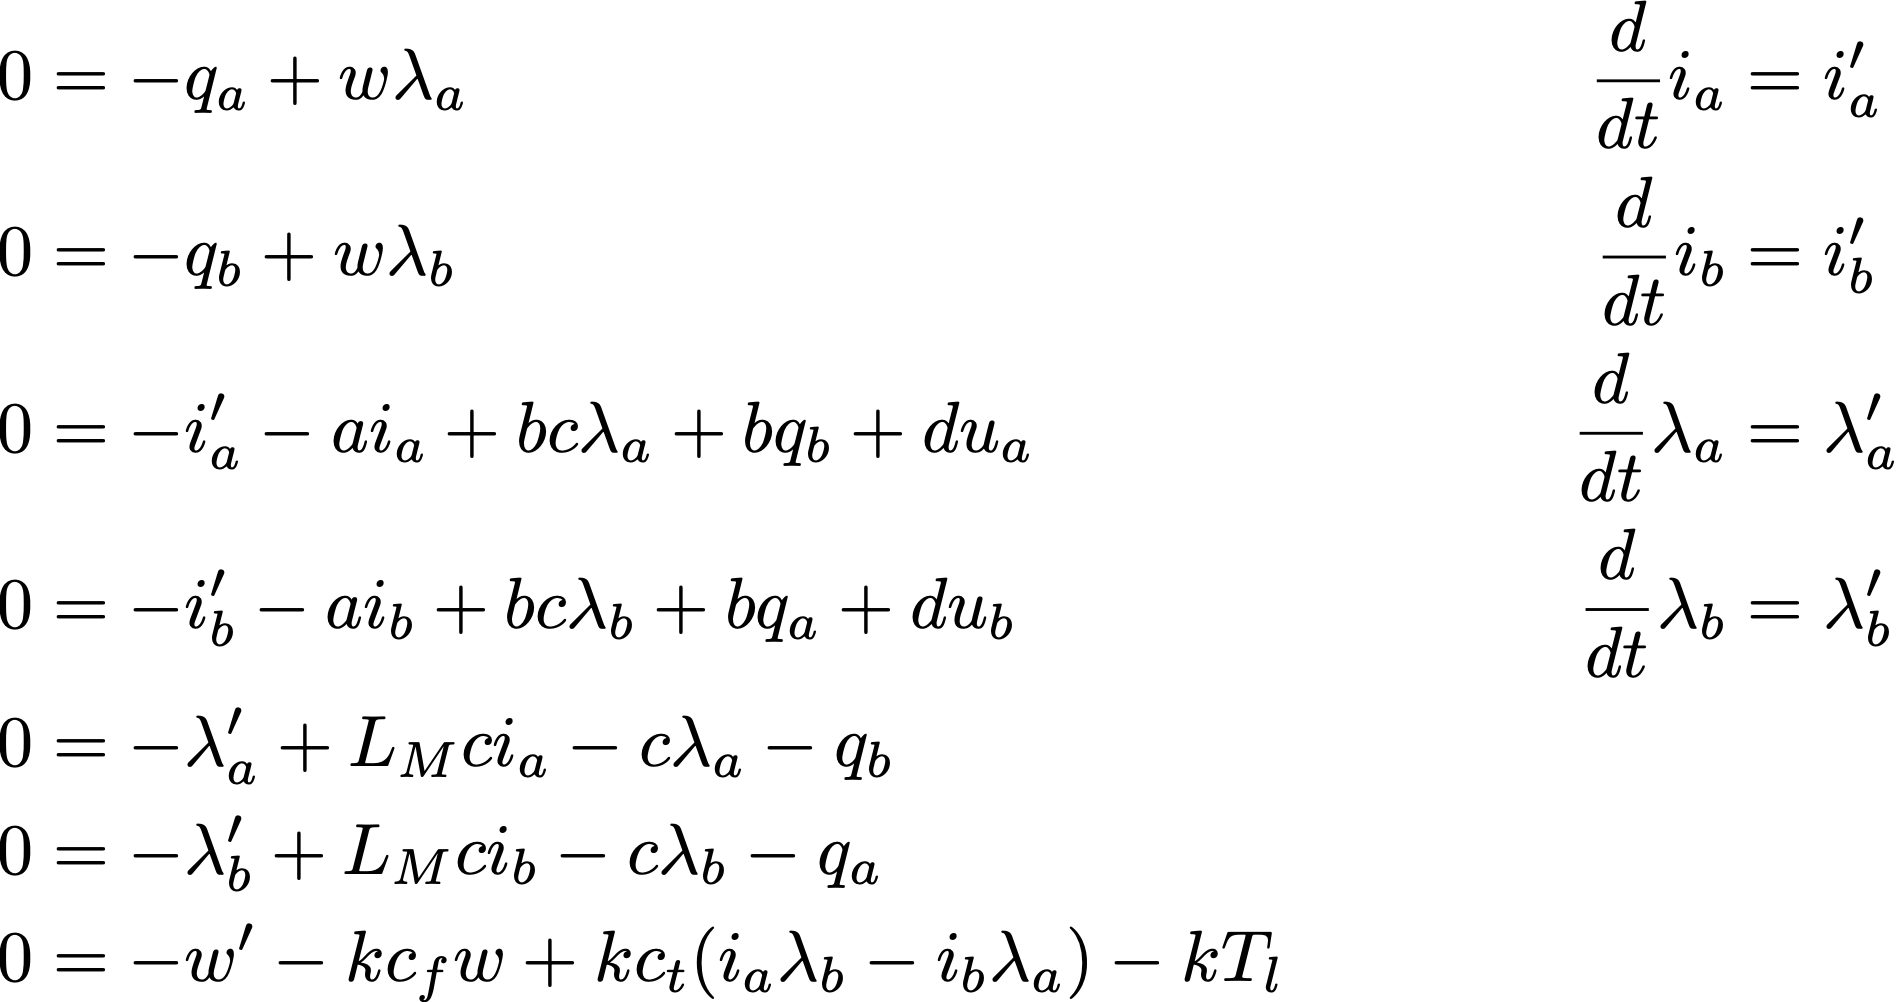
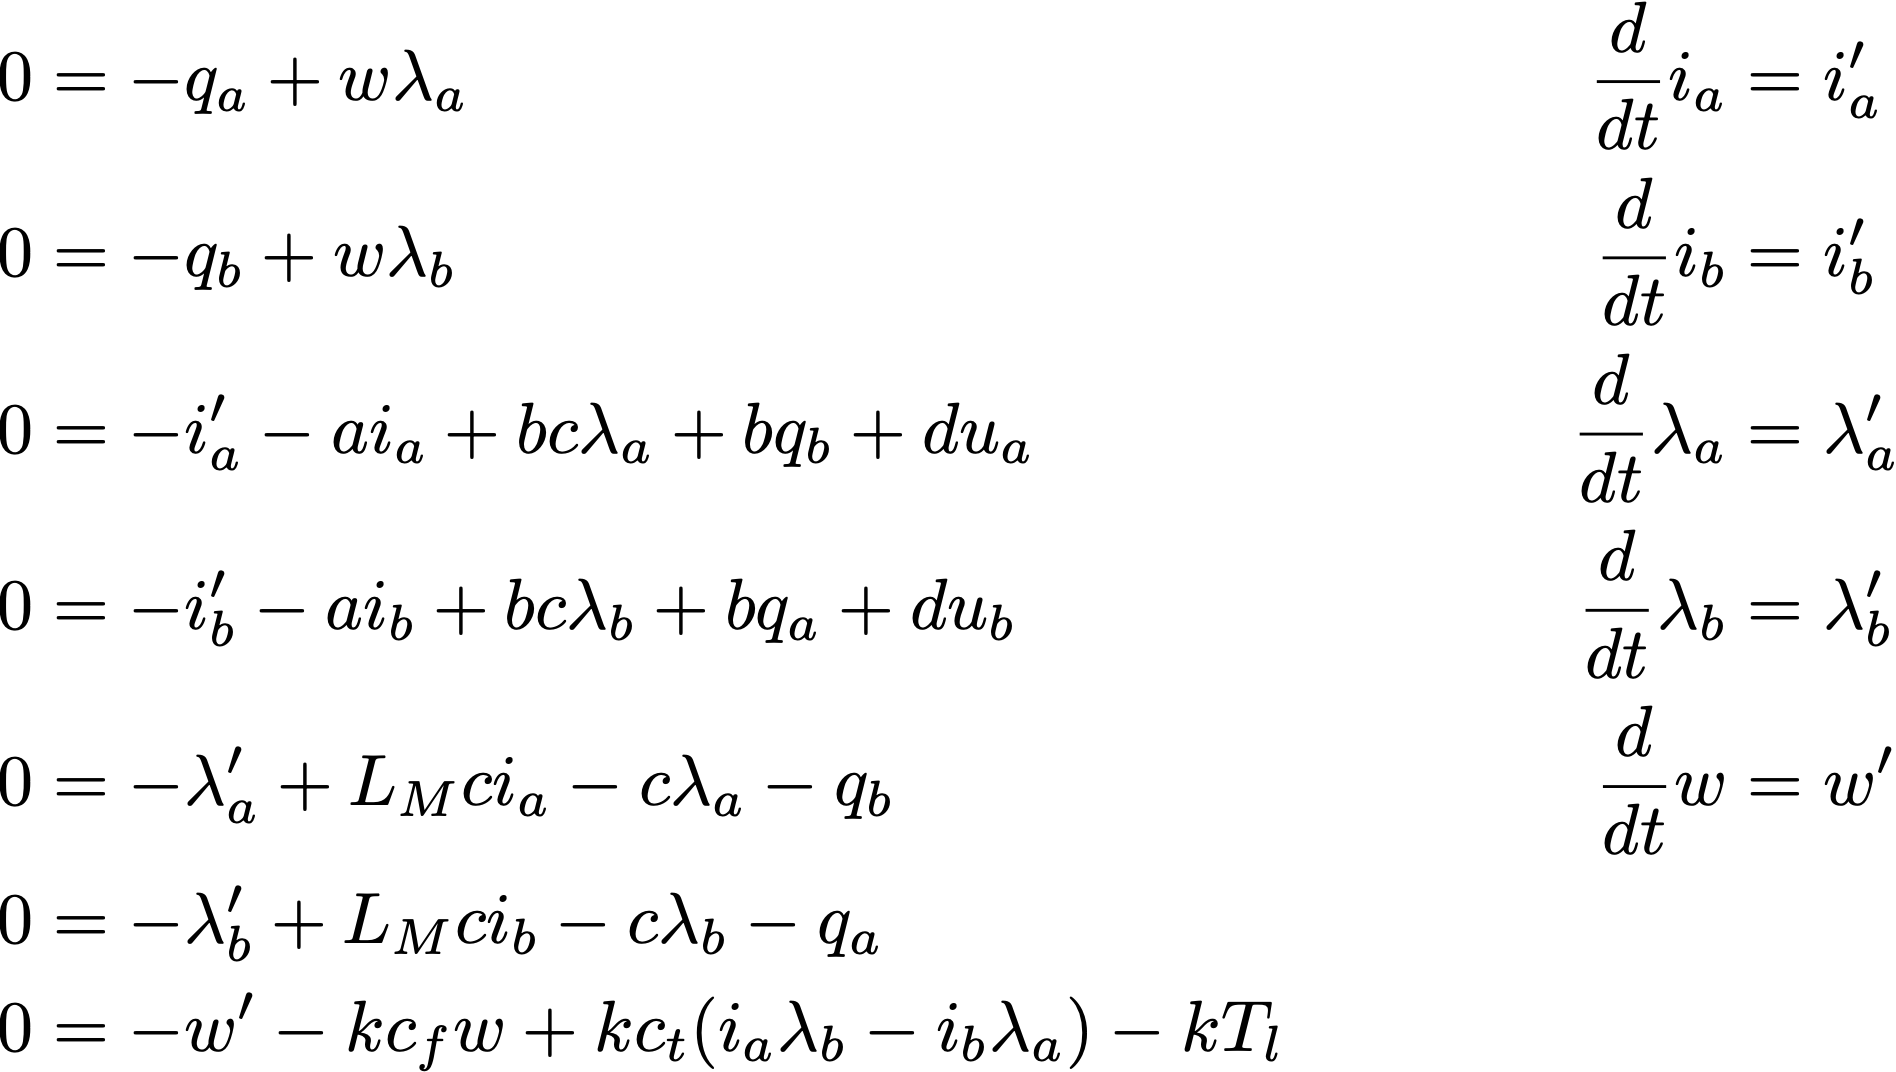
Fixed bug in tutorial model

diff --git a/_posts/tutorials/2020-07-07-python-intro.md b/_posts/tutorials/2020-07-07-python-intro.md
@@ -26,11 +26,11 @@ To illustrate the functionality, a small induction motor example will be used wh
 For reference, the equations are given below
 <p>
 <!---
-  0 &= -q_a + w \lambda_a &   \frac{d}{dt} i_a &= i_a'\\
+0 &= -q_a + w \lambda_a &   \frac{d}{dt} i_a &= i_a'\\
   0 &= -q_b + w \lambda_b & \frac{d}{dt} i_b &= i_b'\\
   0 &= -i_a' -a i_a + b c \lambda_a + b q_b + d u_a & \frac{d}{dt} \lambda_a &= \lambda_a'\\
   0 &= -i_b' -a i_b + b c \lambda_b + b q_a + d u_b & \frac{d}{dt} \lambda_b &= \lambda_b'\\
-  0 &= -\lambda_a' + L_M c i_a - c \lambda_a - q_b\\
+  0 &= -\lambda_a' + L_M c i_a - c \lambda_a - q_b & \frac{d}{dt} w &= w'\\
   0 &= -\lambda_b' + L_M c i_b - c \lambda_b - q_a\\
   0 &= -w' -k c_f w + k c_t (i_a \lambda_b - i_b \lambda_a) - k T_l\\
 
@@ -63,9 +63,9 @@ For the induction motor model, this corresponds to
 model_def = {'type': 'Symbolic',
              'x': ['i_a', 'i_b', 'lambda_a', 'lambda_b', 
                    'w', 'di_a', 'di_b', 'dlambda_a', 
-                   'dlambda_b', 'dw', 'q_a', 'q_b'],
+                   'dlambda_b', 'dw', 'q_a', 'q_b', 'Tl'],
              'f': ['f_a', 'f_b'], 
-             'z': ['u_a', 'u_b', 'y1', 'y2', 'y3', 'Tl'],
+             'z': ['u_a', 'u_b', 'y1', 'y2', 'y3'],
              'parameters': ['a', 'b', 'c', 'd', 'L_M',
                             'k', 'c_f', 'c_t']}
 
@@ -87,6 +87,7 @@ model_def['rels'] = [
   fdt.DiffConstraint('di_b','i_b'),
   fdt.DiffConstraint('dlambda_a','lambda_a'),
   fdt.DiffConstraint('dlambda_b','lambda_b'),
+  fdt.DiffConstraint('dw','w'),
   -y1 + i_a + f_a,
   -y2 + i_b + f_b,
   -y3 + w]
@@ -138,7 +139,7 @@ model.PlotDM(fault=True, eqclass=True)
 ```
 which gives the figure
 <p>
-<img src="/assets/tutorials/induction_dmplot.png" width="75%" align="centering"/>
+<img src="/assets/tutorials/induction_dmplot.png" width="50%" align="centering"/>
 </p>
 For more details, see Mattias Krysander, Jan Åslund, and Mattias Nyberg, "[_An Efficient Algorithm for Finding Minimal Over-constrained Sub-systems
 for Model-based Diagnosis_](http://dx.doi.org/10.1109/TSMCA.2007.909555)".
